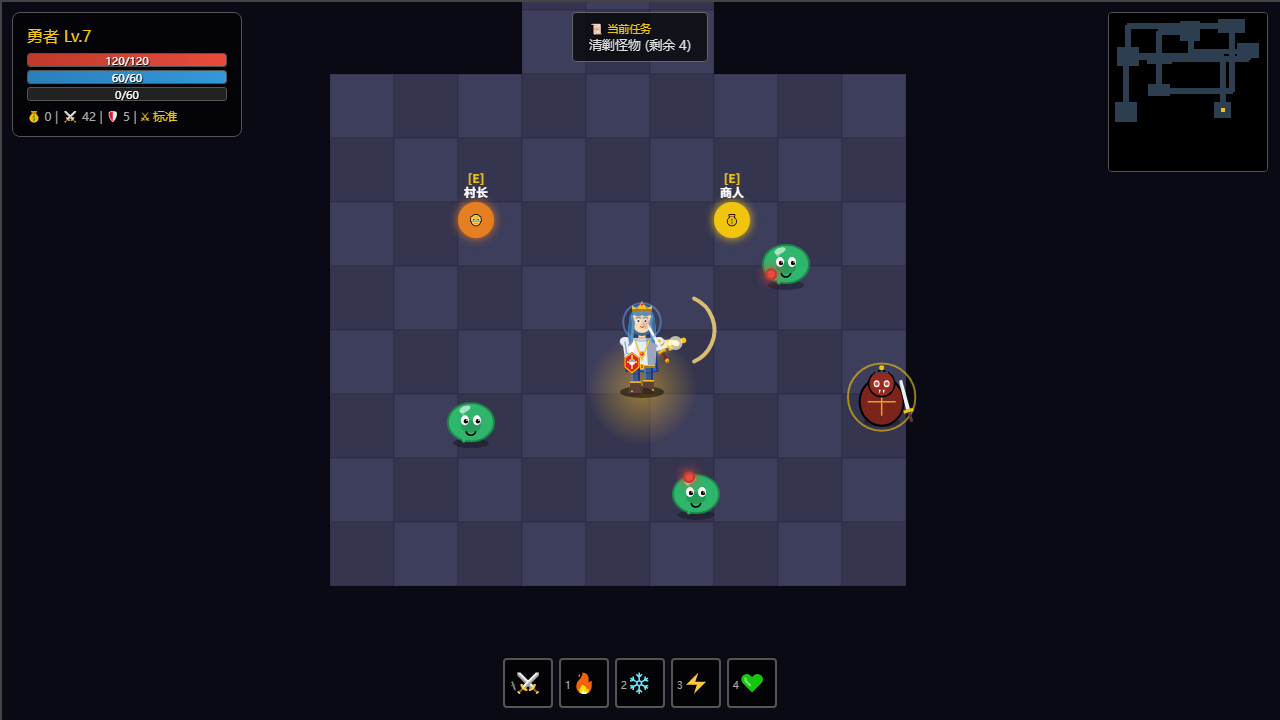
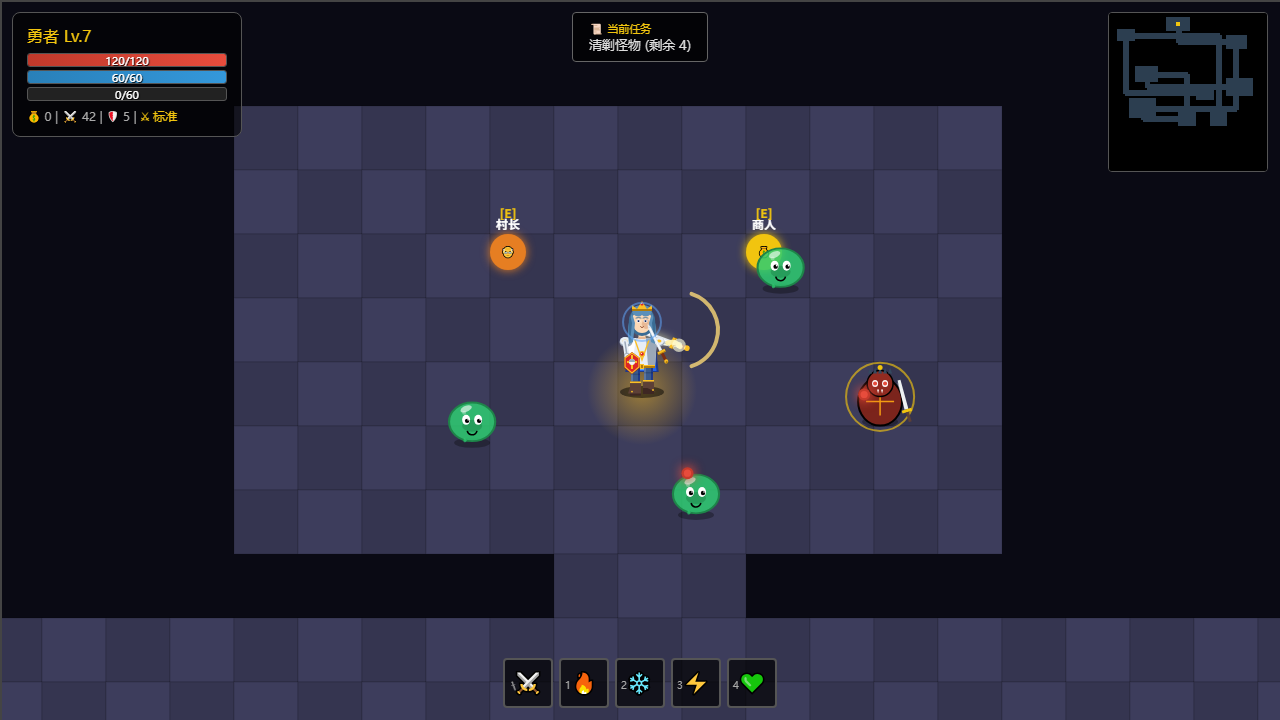
修截图：场景文件互相覆盖导致角色/背包面板是空的
根因：build_wrapper() 让三个场景写同一个 page.html，**后写的覆盖先写的**，
Chrome 加载的永远是最后一个场景（inventory）⇒ character / gameplay 两张
图内容与预期不符，且全程不报错。

修正：
- 每个场景写独立的 page_<tag>.html
- 装备改为直接赋 player.equipped / player.inventory（原先调用的
  giveEquip/makeEquip 并不存在，装备从未生效 —— 角色面板 6 个槽位全是 .empty）
- 敌人用 new Enemy(...) 直接构造（makeEnemy 内部 choose(kinds) 随机取种类，
  颜色随机 ⇒ 断言不稳定），并先清空 startGame() 生成的 29 只原地图敌人
- 断言颜色取实际渲染色（史莱姆身体是半透明 rgba(46,204,113,.85)，
  只有描边 #1e8449 是不透明的）

新增 tools/shot_layout_check.py：语义构图核对 —— 按区域检查元素的
**位置与数量**（HUD 在左上、敌人/属性在面板内、背包面板在右下等），
比「颜色出现过」强得多（全黑 + 一个红点也能通过颜色断言）。

diff --git a/tools/make_screenshots.py b/tools/make_screenshots.py
@@ -29,7 +29,7 @@ OUT = os.path.join(ROOT, "docs", "screenshots")
 CHROME = r"C:\Program Files\Google\Chrome\Application\chrome.exe"
 
 
-def build_wrapper(state_js, out_png, budget=6000):
+def build_wrapper(state_js, out_png, budget=6000, tag="scene"):
     """生成包装页：原 index.html 内容 + 追加驱动脚本。"""
     html = open(SRC_HTML, encoding="utf-8").read()
     # 移除 </body>，追加驱动脚本
@@ -59,7 +59,12 @@ def build_wrapper(state_js, out_png, budget=6000):
     # 让 body 正好是游戏大小，避免整页截图时出现黑边
     html = html.replace("min-height: 100vh;", "min-height: 0;")
     html = html.replace("width: 100%;\n    height: 100%;", "width: 1280px;\n    height: 720px;")
-    wrapper = os.path.join(WORK, "page.html")
+    # —— 每个场景一个独立文件 ——
+    # 早先三个场景都写同一个 `page.html`，**后写的覆盖先写的**，
+    # 于是 Chrome 加载的永远是最后一个场景（inventory）⇒
+    # character / gameplay 的截图内容与预期不符，且**不报错**。
+    # 判据：三张图 md5 相同 + 内容断言里的「面板内有绿色属性值」为 0。
+    wrapper = os.path.join(WORK, "page_%s.html" % tag)
     with open(wrapper, "wb") as f:
         f.write(html.encode("utf-8"))
     # game.js 必须与包装页同级（相对路径加载）
@@ -143,13 +148,31 @@ SCENES = {
       player.level = 12; player.exp = 320; player.gold = 1840;
       player.atk = 38; player.def = 24; player.maxHp = 260; player.hp = 221;
       player.maxMp = 90; player.mp = 74; player.crit = 18; player.lifesteal = 12;
-      // 塞一套装备，让面板有东西可展示
-      if (typeof giveEquip === 'function') {
-        var names = ['烈焰之刃','霜寒护腕','龙鳞胸甲','疾风战靴','智慧之戒','秘银头盔'];
-        for (var i = 0; i < 6; i++) {
-          try { giveEquip(makeEquip(i, names[i])); } catch (e) {}
-        }
-      }
+      // 装备 6 个槽位 —— 面板的 6 个槽位默认是 .empty（无加成 ⇒ 属性区没有
+      // 绿色 bonus 数字，截图会显得空）。装备对象字段照抄游戏内测试用例的结构。
+      player.equipped = {
+        weapon: { kind:'weapon', name:'烈焰之刃', color:'#ff6b35', rarity:'legendary',
+                  atk:25, def:0, range:60,
+                  affixes:[{stat:'atk',value:8,label:'攻击力 +8'},
+                           {stat:'crit',value:5,label:'暴击率 +5%'}] },
+        armor:  { kind:'armor', name:'龙鳞胸甲', color:'#2ecc71', rarity:'rare',
+                  atk:0, def:18, hp:40,
+                  affixes:[{stat:'def',value:6,label:'防御力 +6'}] },
+        head:   { kind:'head', name:'秘银头盔', color:'#95a5a6', rarity:'rare',
+                  atk:0, def:8, hp:20,
+                  affixes:[{stat:'hp',value:15,label:'生命值 +15'}] },
+        gloves: { kind:'gloves', name:'霜寒护腕', color:'#3498db', rarity:'common',
+                  atk:6, def:5,
+                  affixes:[{stat:'atk',value:3,label:'攻击力 +3'}] },
+        boots:  { kind:'boots', name:'疾风战靴', color:'#e67e22', rarity:'common',
+                  atk:0, def:4, speed:0.5,
+                  affixes:[{stat:'speed',value:0.3,label:'移动速度 +0.3'}] },
+        amulet: { kind:'amulet', name:'智慧之戒', color:'#9b59b6', rarity:'legendary',
+                  atk:8, def:0, crit:6, lifesteal:5,
+                  affixes:[{stat:'crit',value:6,label:'暴击率 +6%'},
+                           {stat:'lifesteal',value:5,label:'吸血 +5%'}] }
+      };
+      if (typeof player.invalidateBonus === 'function') player.invalidateBonus();
       setTimeout(function () {
         try { toggleCharacterPanel(); } catch (e) {}
       }, 200);
@@ -158,12 +181,20 @@ SCENES = {
     "inventory": """
       startGame();
       player.level = 9; player.gold = 960;
-      if (typeof giveEquip === 'function') {
-        var names = ['烈焰之刃','霜寒护腕','龙鳞胸甲','疾风战靴','智慧之戒'];
-        for (var i = 0; i < 5; i++) {
-          try { giveEquip(makeEquip(i, names[i])); } catch (e) {}
-        }
-      }
+      // 往背包里放 5 件装备（背包 = player.inventory，16 格）
+      var ITEMS = [
+        { kind:'weapon', name:'烈焰之刃', color:'#ff6b35', rarity:'legendary', atk:25, def:0, range:60,
+          affixes:[{stat:'atk',value:8,label:'攻击力 +8'},{stat:'crit',value:5,label:'暴击率 +5%'}] },
+        { kind:'armor', name:'龙鳞胸甲', color:'#2ecc71', rarity:'rare', atk:0, def:18, hp:40,
+          affixes:[{stat:'def',value:6,label:'防御力 +6'}] },
+        { kind:'head', name:'秘银头盔', color:'#95a5a6', rarity:'rare', atk:0, def:8, hp:20,
+          affixes:[{stat:'hp',value:15,label:'生命值 +15'}] },
+        { kind:'gloves', name:'霜寒护腕', color:'#3498db', rarity:'common', atk:6, def:5,
+          affixes:[{stat:'atk',value:3,label:'攻击力 +3'}] },
+        { kind:'boots', name:'疾风战靴', color:'#e67e22', rarity:'common', atk:0, def:4, speed:0.5,
+          affixes:[{stat:'speed',value:0.3,label:'移动速度 +0.3'}] }
+      ];
+      for (var i = 0; i < ITEMS.length; i++) { player.inventory[i] = ITEMS[i]; }
       setTimeout(function () {
         try {
           var p = document.getElementById('inventory-panel');
@@ -253,7 +284,7 @@ def main():
     results = []
     for name, js in SCENES.items():
         out_png = os.path.join(OUT, "%s.png" % name)
-        wrapper = build_wrapper(js, out_png, args.budget)
+        wrapper = build_wrapper(js, out_png, args.budget, tag=name)
         ok, so, se = shoot(wrapper, out_png, args.budget)
         if not ok:
             print("[FAIL] %s —— 未生成 PNG\n%s" % (name, se))

diff --git a/tools/shot_layout_check.py b/tools/shot_layout_check.py
@@ -1,0 +1,103 @@
+# -*- coding: utf-8 -*-
+"""截图**语义构图**核对：验证画面里该有的元素都在**正确的位置**。
+
+比「颜色出现过」强得多 —— 一张全黑 + 一个红点的图也能通过颜色断言，
+但显然不是合格的截图。本脚本按区域检查元素的**位置与数量**。
+
+用法：python tools/shot_layout_check.py <克隆目录>
+"""
+import os
+import sys
+
+sys.path.insert(0, os.path.dirname(os.path.abspath(__file__)))
+from png_check import decode, hex2rgb  # noqa: E402
+
+
+def near(px, ch, o, rgb, tol=14):
+    return (abs(px[o] - rgb[0]) <= tol and abs(px[o + 1] - rgb[1]) <= tol
+            and abs(px[o + 2] - rgb[2]) <= tol)
+
+
+def region_hits(px, ch, w, box, rgb, tol=14):
+    """统计指定矩形区域内命中目标色的像素数。"""
+    x0, y0, x1, y1 = box
+    n = 0
+    for y in range(max(0, y0), min(720, y1)):
+        row = y * w
+        for x in range(max(0, x0), min(w, x1)):
+            o = (row + x) * ch
+            if near(px, ch, o, rgb, tol):
+                n += 1
+    return n
+
+
+def main():
+    root = sys.argv[1] if len(sys.argv) > 1 else "."
+    S = os.path.join(root, "docs", "screenshots")
+    ok_all = True
+
+    def check(title, cond, detail):
+        nonlocal ok_all
+        ok_all = ok_all and cond
+        print("  [%s] %-46s %s" % ("OK" if cond else "FAIL", title, detail))
+
+    # —— ① gameplay：HUD 血蓝条在左上、敌人（绿/精英环）在画面中部、玩家在中心 ——
+    print("== gameplay.png ==")
+    w, h, ch, px = decode(os.path.join(S, "gameplay.png"))
+    hp = region_hits(px, ch, w, (0, 0, 260, 120), hex2rgb("#e74c3c"))
+    check("左上 HUD 血条为红", hp > 100, "%d 像素 @ (0,0)-(260,120)" % hp)
+    mp = region_hits(px, ch, w, (0, 0, 260, 200), hex2rgb("#3498db"))
+    check("左上 HUD 蓝条为蓝", mp > 100, "%d 像素 @ (0,0)-(260,200)" % mp)
+    slime = region_hits(px, ch, w, (300, 150, 1000, 620), hex2rgb("#1e8449"))
+    check("画面中部有史莱姆（描边绿）", slime > 50, "%d 像素 @ (300,150)-(1000,620)" % slime)
+    elite = region_hits(px, ch, w, (300, 150, 1000, 620), hex2rgb("#f39c12"))
+    check("画面中部有精英怪光环", elite > 5, "%d 像素 @ (300,150)-(1000,620)" % elite)
+    # 玩家脚下是**半透明**金色光环 rgba(251,191,36,α)：按纯色匹配不到，
+    # 改用「亮度显著高于地板」的亮金像素做判据（容差放宽到 40）。
+    aura = region_hits(px, ch, w, (480, 260, 800, 520), hex2rgb("#fbbf24"), tol=40)
+    check("玩家脚下有金色光环", aura > 30, "%d 像素 @ (480,260)-(800,520)" % aura)
+    # 底部技能栏：5 个 50x50 槽位，槽位边框是**不透明**的 #555
+    slots = region_hits(px, ch, w, (560, 645, 720, 705), hex2rgb("#555555"))
+    check("底部技能栏有 5 个槽位边框", slots > 200, "%d 像素 @ (560,645)-(720,705)" % slots)
+
+    # —— ② character：面板边框紫色环绕中央 760x520 区域 ——
+    print("== character.png ==")
+    w, h, ch, px = decode(os.path.join(S, "character.png"))
+    panel = hex2rgb("#c39bd3")
+    top = region_hits(px, ch, w, (250, 95, 1030, 110), panel)
+    bot = region_hits(px, ch, w, (250, 605, 1030, 620), panel)
+    check("面板上边框为紫", top > 200, "%d 像素 @ 上边" % top)
+    check("面板下边框为紫", bot > 200, "%d 像素 @ 下边" % bot)
+    left = region_hits(px, ch, w, (252, 100, 268, 615), panel)
+    right = region_hits(px, ch, w, (1015, 100, 1031, 615), panel)
+    check("面板左边框为紫", left > 100, "%d 像素 @ 左边" % left)
+    check("面板右边框为紫", right > 100, "%d 像素 @ 右边" % right)
+    inner = region_hits(px, ch, w, (270, 110, 1010, 600), hex2rgb("#2ecc71"))
+    check("面板内有绿色属性值", inner > 20, "%d 像素 @ 面板内部" % inner)
+
+    # —— ③ inventory：右下角背包面板（280px 宽，底部 10px，右侧 10px）——
+    print("== inventory.png ==")
+    w, h, ch, px = decode(os.path.join(S, "inventory.png"))
+    bord = hex2rgb("#555555")
+    ib = region_hits(px, ch, w, (985, 460, 1270, 710), bord)
+    check("右下背包面板区域有边框色", ib > 500, "%d 像素 @ (985,460)-(1270,710)" % ib)
+    # 背包面板：宽 280、右侧边距 10 ⇒ 竖线在 x≈988 与 x≈1267；
+    # 上边框是一条横贯的灰线。面板高度随内容而变，**不能写死 y** ——
+    # 故先在 400~560 区间内自动定位那条横线，再据此断言。
+    best_y, best_n = -1, 0
+    for y in range(400, 560):
+        n = region_hits(px, ch, w, (992, y, 1264, y + 2), bord)
+        if n > best_n:
+            best_y, best_n = y, n
+    check("背包面板上边框是一条水平线", best_n > 150,
+          "%d 像素 @ y=%d" % (best_n, best_y))
+    above = region_hits(px, ch, w, (992, best_y - 40, 1264, best_y - 38), bord)
+    check("面板上方无同样长度的水平线", above < best_n / 2,
+          "上方 %d vs 边框 %d 像素" % (above, best_n))
+
+    print("\n=> %s" % ("全部通过" if ok_all else "存在失败项"))
+    return 0 if ok_all else 1
+
+
+if __name__ == "__main__":
+    sys.exit(main())
